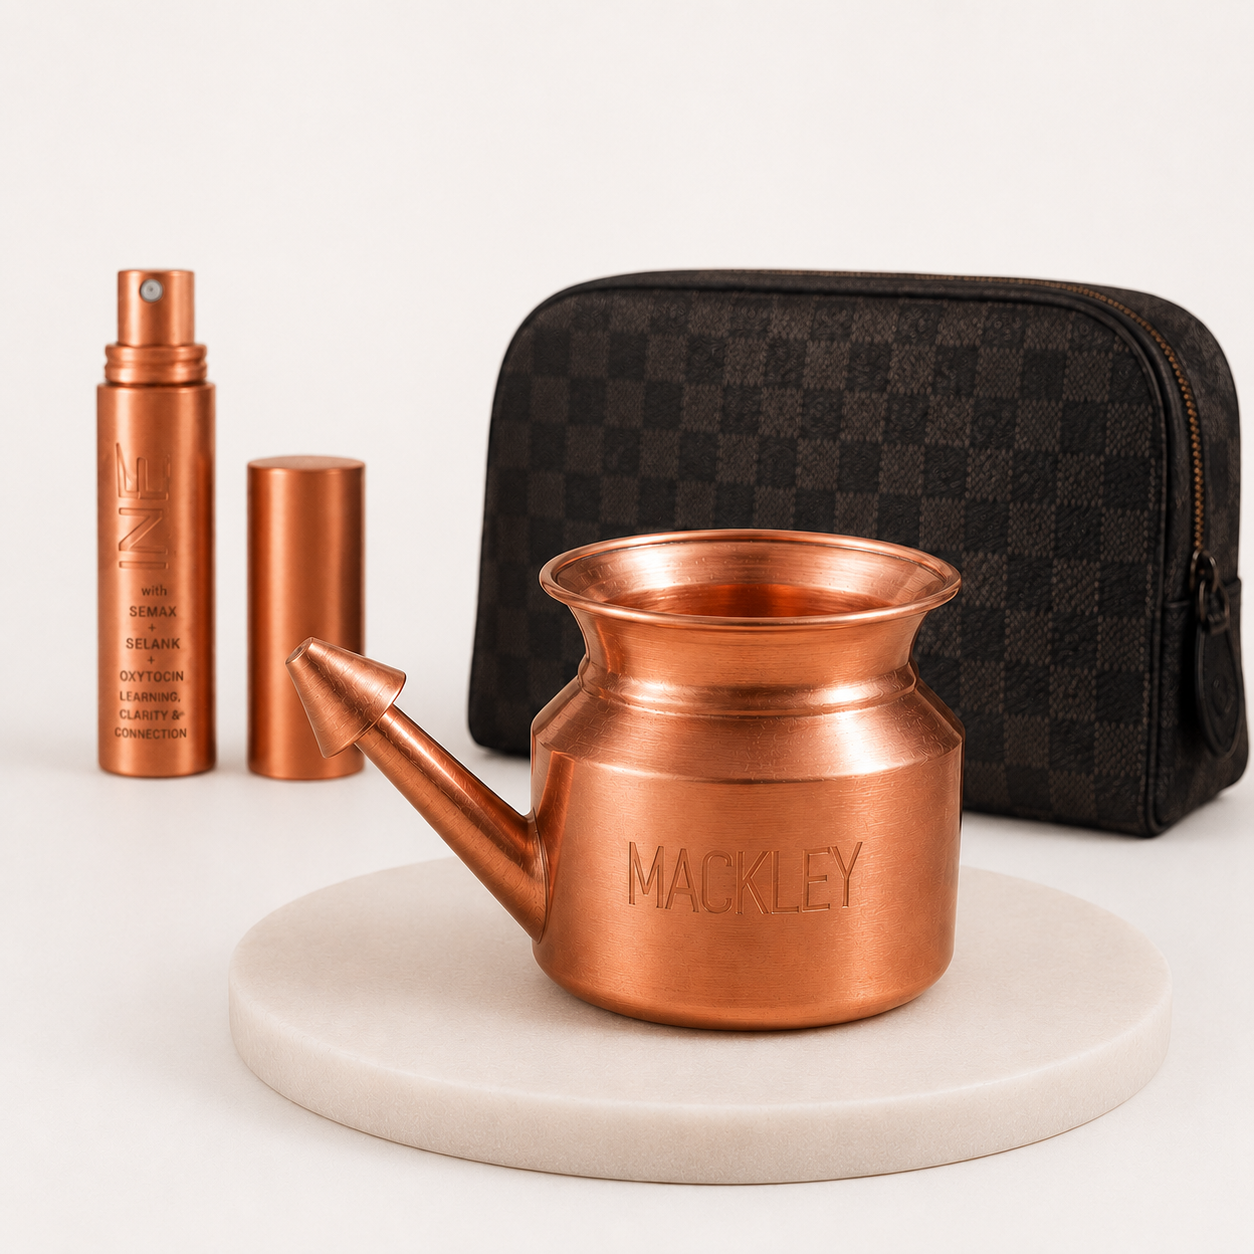
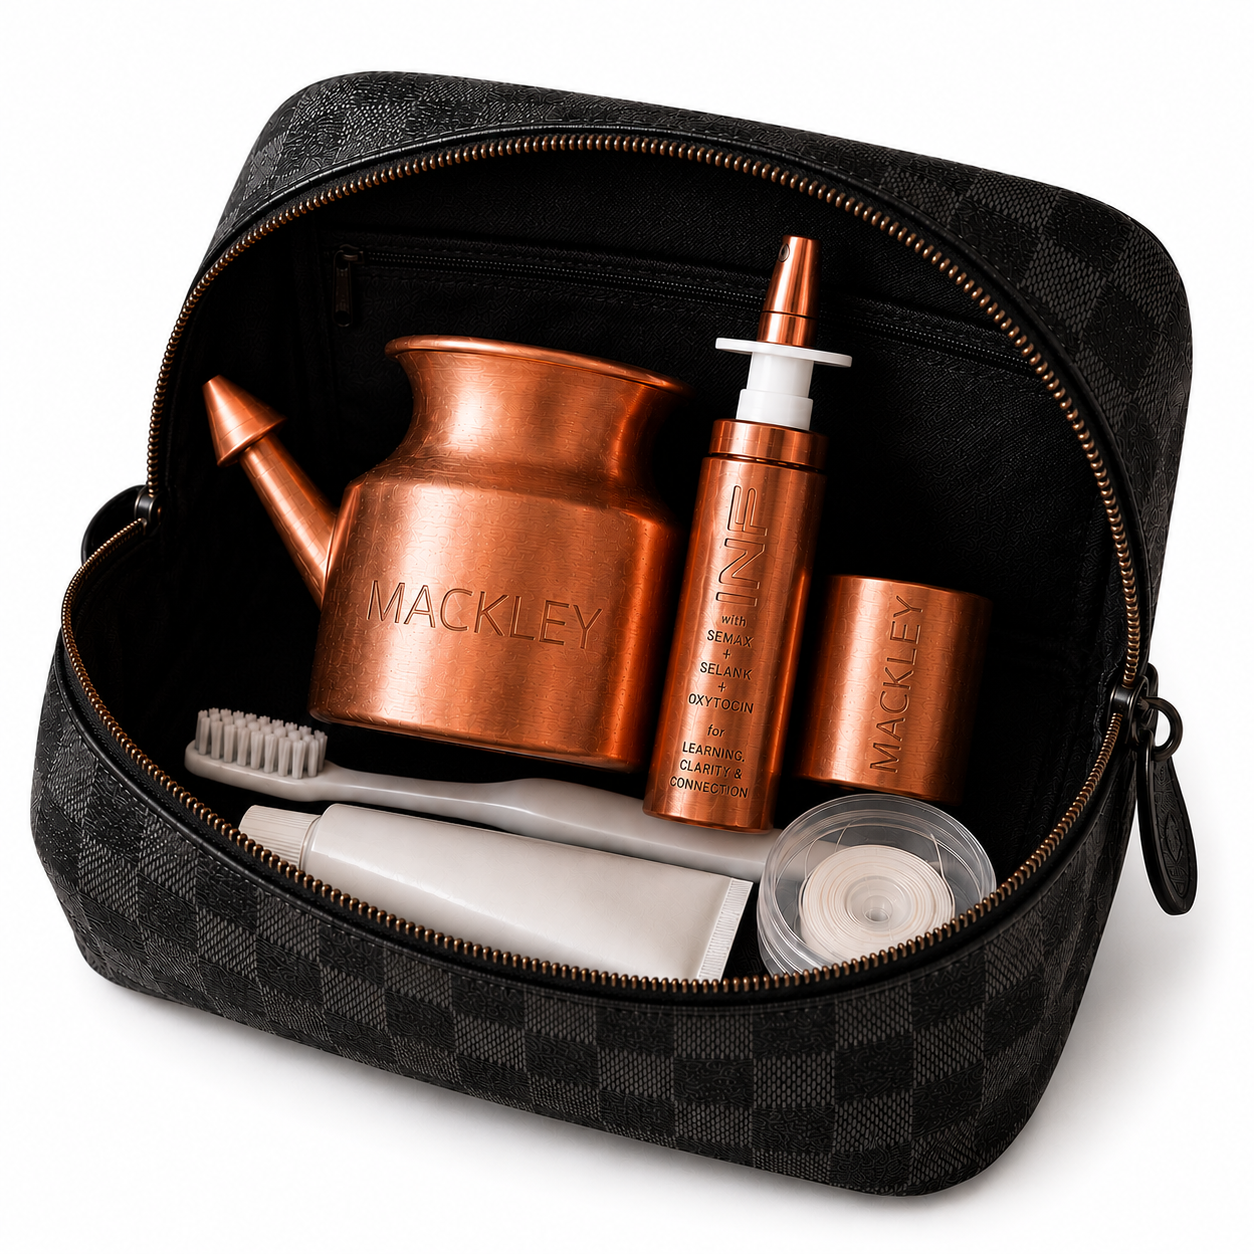
Replace product carousel images

diff --git a/index.html b/index.html
@@ -90,13 +90,10 @@
           <div class="carousel-viewport" tabindex="0">
             <div class="carousel-track">
               <div class="carousel-slide">
-                <img class="carousel-image" src="/public/product/inf-product-01.png" alt="INF intranasal formula bottle with copper cap" decoding="async" fetchpriority="high" />
+                <img class="carousel-image" src="/public/product/inf-product-01.png?v=20260617-new-product-images-v1" alt="INF intranasal formula bottle with copper applicator and MACKLEY cap" decoding="async" fetchpriority="high" />
               </div>
               <div class="carousel-slide">
-                <img class="carousel-image" src="/public/product/inf-product-02.png" alt="INF intranasal formula bottle with MACKLEY copper neti pot and travel bag" loading="lazy" decoding="async" />
-              </div>
-              <div class="carousel-slide">
-                <img class="carousel-image" src="/public/product/inf-product-03.png" alt="INF intranasal formula kit packed in a black travel bag" loading="lazy" decoding="async" />
+                <img class="carousel-image" src="/public/product/inf-product-02.png?v=20260617-new-product-images-v1" alt="INF intranasal formula kit packed in a black travel bag with copper neti pot" loading="lazy" decoding="async" />
               </div>
             </div>
           </div>
@@ -140,13 +137,10 @@
           <div class="carousel-viewport" tabindex="0">
             <div class="carousel-track">
               <div class="carousel-slide">
-                <img class="carousel-image" src="/public/product/inf-product-01.png" alt="INF intranasal formula bottle with copper cap" decoding="async" fetchpriority="high" />
+                <img class="carousel-image" src="/public/product/inf-product-01.png?v=20260617-new-product-images-v1" alt="INF intranasal formula bottle with copper applicator and MACKLEY cap" decoding="async" fetchpriority="high" />
               </div>
               <div class="carousel-slide">
-                <img class="carousel-image" src="/public/product/inf-product-02.png" alt="INF intranasal formula bottle with MACKLEY copper neti pot and travel bag" loading="lazy" decoding="async" />
-              </div>
-              <div class="carousel-slide">
-                <img class="carousel-image" src="/public/product/inf-product-03.png" alt="INF intranasal formula kit packed in a black travel bag" loading="lazy" decoding="async" />
+                <img class="carousel-image" src="/public/product/inf-product-02.png?v=20260617-new-product-images-v1" alt="INF intranasal formula kit packed in a black travel bag with copper neti pot" loading="lazy" decoding="async" />
               </div>
             </div>
           </div>
@@ -185,8 +179,8 @@
     </div>
   </footer>
 
-  <script src="/product-data.js?v=20260617-product-bold-story-v1"></script>
-  <script src="/product-render.js?v=20260617-product-bold-story-v1"></script>
+  <script src="/product-data.js?v=20260617-new-product-images-v1"></script>
+  <script src="/product-render.js?v=20260617-new-product-images-v1"></script>
   <script src="/ads.js?v=20260617-product-click-proof-v1"></script>
   <script>
     const activeVariant = document.documentElement.dataset.landingVariant || "b";

diff --git a/product/index.html b/product/index.html
@@ -43,13 +43,10 @@
           <div class="carousel-viewport" tabindex="0">
             <div class="carousel-track">
               <div class="carousel-slide">
-                <img class="carousel-image" src="/public/product/inf-product-01.png" alt="INF intranasal formula bottle with copper cap" decoding="async" fetchpriority="high" />
+                <img class="carousel-image" src="/public/product/inf-product-01.png?v=20260617-new-product-images-v1" alt="INF intranasal formula bottle with copper applicator and MACKLEY cap" decoding="async" fetchpriority="high" />
               </div>
               <div class="carousel-slide">
-                <img class="carousel-image" src="/public/product/inf-product-02.png" alt="INF intranasal formula bottle with MACKLEY copper neti pot and travel bag" loading="lazy" decoding="async" />
-              </div>
-              <div class="carousel-slide">
-                <img class="carousel-image" src="/public/product/inf-product-03.png" alt="INF intranasal formula kit packed in a black travel bag" loading="lazy" decoding="async" />
+                <img class="carousel-image" src="/public/product/inf-product-02.png?v=20260617-new-product-images-v1" alt="INF intranasal formula kit packed in a black travel bag with copper neti pot" loading="lazy" decoding="async" />
               </div>
             </div>
           </div>
@@ -108,8 +105,8 @@
     <a class="cta cta--primary product-footer-cta__button" href="/spray-intake/?next=payment" data-product-buy data-track="get-started" data-item="Intranasal Neuropeptide Formula" data-stripe-product-id="prod_UgF2SFTaA6cCVy" data-value="30">Request Prescription</a>
   </div>
 
-  <script src="/product-data.js?v=20260617-product-bold-story-v1"></script>
-  <script src="/product-render.js?v=20260617-product-bold-story-v1"></script>
+  <script src="/product-data.js?v=20260617-new-product-images-v1"></script>
+  <script src="/product-render.js?v=20260617-new-product-images-v1"></script>
   <script src="/ads.js?v=20260617-product-click-proof-v1"></script>
   <script type="module" src="/carousel.js?v=20260610-get-started"></script>
   <script type="module" src="/social-proof.js"></script>

diff --git a/product-data.js b/product-data.js
@@ -14,16 +14,12 @@
     intakeLink: "/spray-intake/?next=payment",
     images: [
       {
-        src: "/public/product/inf-product-01.png",
-        alt: "INF intranasal formula bottle with copper cap"
+        src: "/public/product/inf-product-01.png?v=20260617-new-product-images-v1",
+        alt: "INF intranasal formula bottle with copper applicator and MACKLEY cap"
       },
       {
-        src: "/public/product/inf-product-02.png",
-        alt: "INF intranasal formula bottle with MACKLEY copper neti pot and travel bag"
-      },
-      {
-        src: "/public/product/inf-product-03.png",
-        alt: "INF intranasal formula kit packed in a black travel bag"
+        src: "/public/product/inf-product-02.png?v=20260617-new-product-images-v1",
+        alt: "INF intranasal formula kit packed in a black travel bag with copper neti pot"
       }
     ],
     story: [
